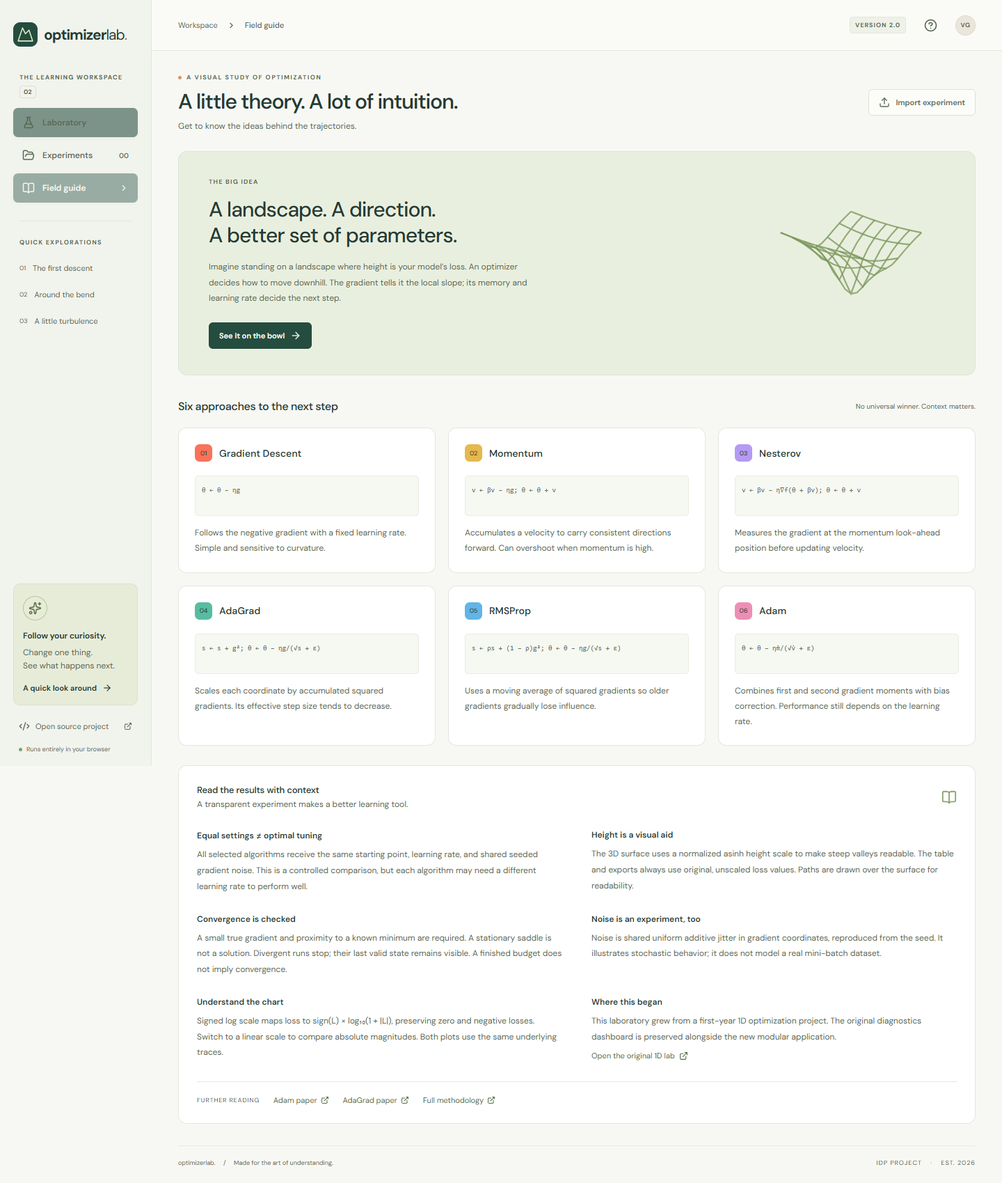
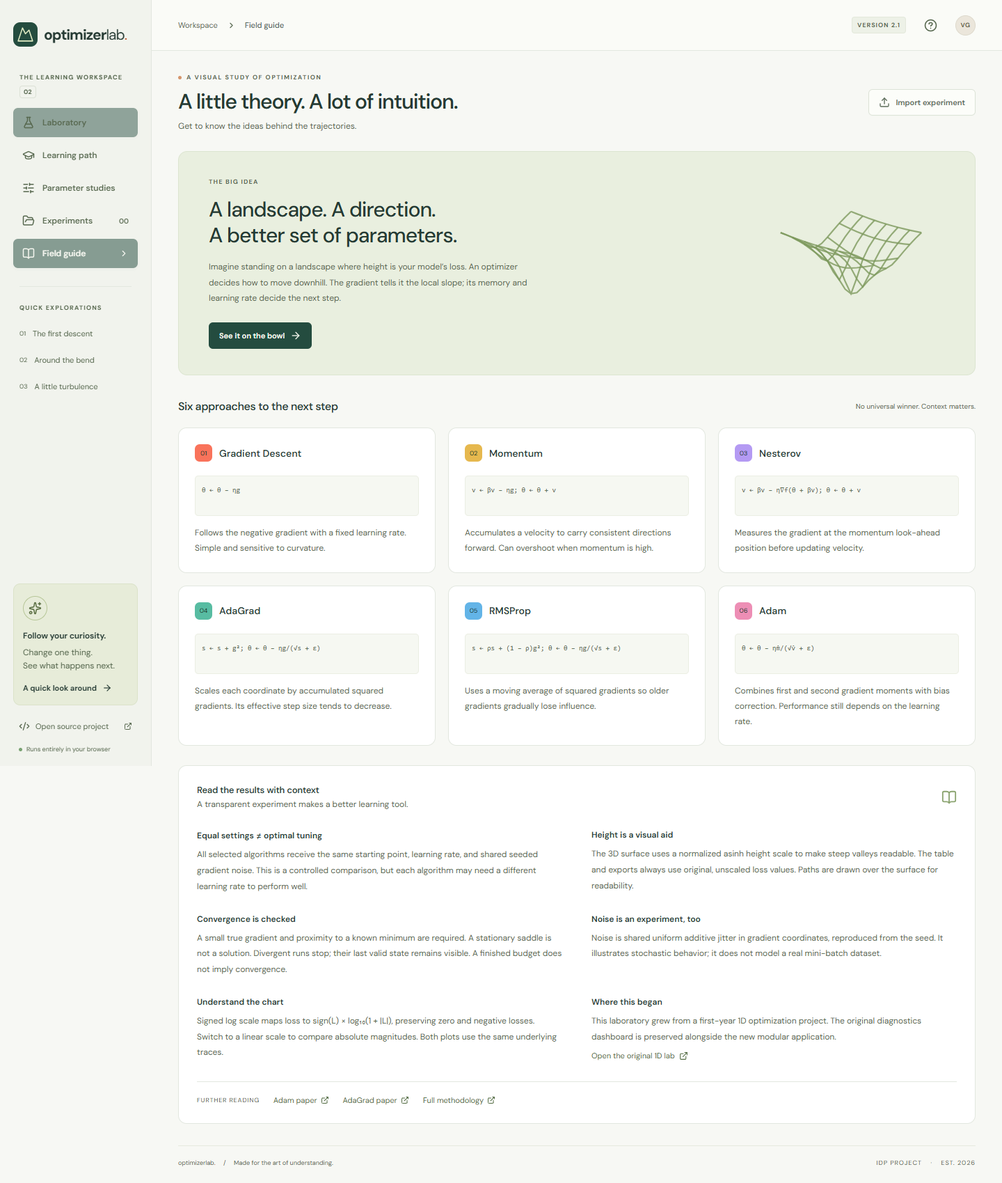
docs: publish the teaching methodology and prepare Vercel release

Changed region(s): [[0.0, 0.1248, 0.1562, 0.3119], [0.0312, 0.5303, 0.0938, 0.5927]]

diff --git a/docs/methodology.md b/docs/methodology.md
@@ -4,17 +4,28 @@ The lab studies unconstrained optimization of a scalar objective `f(x, y)` using
 
 ## Loss surfaces
 
-| Surface        | Objective                        | Analytic gradient `(∂f/∂x, ∂f/∂y)`               | Known global minima                  |
-| -------------- | -------------------------------- | ------------------------------------------------ | ------------------------------------ |
-| Quadratic      | `½(x² + 6y²)`                    | `(x, 6y)`                                        | `(0, 0)`, loss `0`                   |
-| Quartic saddle | `x² − y² + 0.15y⁴`               | `(2x, −2y + 0.6y³)`                              | `(0, ±√(10/3))`, loss `−5/3`         |
-| Rosenbrock     | `(1−x)² + 100(y−x²)²`            | `(2(x−1) − 400x(y−x²), 200(y−x²))`               | `(1, 1)`, loss `0`                   |
-| Himmelblau     | `(x²+y−11)² + (x+y²−7)²`         | `(4x(x²+y−11)+2(x+y²−7), 2(x²+y−11)+4y(x+y²−7))` | Four points with loss `0`; see below |
-| Rastrigin      | `20+x²+y²−10[cos(2πx)+cos(2πy)]` | `(2x+20πsin(2πx), 2y+20πsin(2πy))`               | `(0, 0)`, loss `0`                   |
+| Surface           | Objective                        | Analytic gradient `(∂f/∂x, ∂f/∂y)`               | Known global minima                                          |
+| ----------------- | -------------------------------- | ------------------------------------------------ | ------------------------------------------------------------ |
+| Quadratic         | `½(x² + 6y²)`                    | `(x, 6y)`                                        | `(0, 0)`, loss `0`                                           |
+| Quartic saddle    | `x² − y² + 0.15y⁴`               | `(2x, −2y + 0.6y³)`                              | `(0, ±√(10/3))`, loss `−5/3`                                 |
+| Rosenbrock        | `(1−x)² + 100(y−x²)²`            | `(2(x−1) − 400x(y−x²), 200(y−x²))`               | `(1, 1)`, loss `0`                                           |
+| Himmelblau        | `(x²+y−11)² + (x+y²−7)²`         | `(4x(x²+y−11)+2(x+y²−7), 2(x²+y−11)+4y(x+y²−7))` | Four points with loss `0`; see below                         |
+| Rastrigin         | `20+x²+y²−10[cos(2πx)+cos(2πy)]` | `(2x+20πsin(2πx), 2y+20πsin(2πy))`               | `(0, 0)`, loss `0`                                           |
+| Linear regression | `L(w,b) = Σ(wuᵢ+b−tᵢ)²/(2n)`     | `(Σrᵢuᵢ/n, Σrᵢ/n)`, where `rᵢ = wuᵢ+b−tᵢ`        | Training-data least-squares solution; generally nonzero loss |
 
 Himmelblau's stored minima are `(3, 2)`, `(-2.805118, 3.131312)`, `(-3.779310, -3.283186)`, and `(3.584428, -1.848126)`. Three are rounded coordinates, so their computed loss need not be exactly zero.
 
 The quartic saddle is bounded below and has a stationary saddle at `(0, 0)`. It is deliberately different from the unbounded surface `x² − y²`. With zero gradient, zero velocity, and no noise, all six methods can remain at the exact saddle; momentum is not a guaranteed escape mechanism.
+
+### From a surface to a fitted model
+
+For **Fit a Line**, the surface coordinates are parameters: `x = w` is slope and `y = b` is intercept. They are different from the plotted observation feature `u` and target `t`. A point on the loss surface therefore specifies the entire prediction rule `t̂ = wu + b`.
+
+[`src/lib/regression.ts`](../src/lib/regression.ts) supplies a fixed synthetic dataset: 25 training observations and 12 separate held-out observations, generated around `t = 1.4u + 0.65` with deterministic sinusoidal residuals. The data are reproducible teaching examples, not real measurements, and do not change with the experiment seed. The reference minimum is computed by closed-form least squares using **training data only**. Residual variation means even the optimal training line has nonzero error.
+
+The surface objective is **half the training mean squared error**. Its derivative is simpler because the factor of two from differentiating the square cancels the one-half. The model panel reports ordinary MSE for both splits, so `training MSE = 2L`. [Google's regression-loss lesson](https://developers.google.com/machine-learning/crash-course/linear-regression/loss) explains the prediction-to-squared-error connection.
+
+Every optimizer update uses all 25 training observations: this is full-batch optimization. The 12 held-out observations are used only to display evaluation error, never to calculate an update or the reference minimum. Their small, synthetic split cannot establish real-world generalization. Repeatedly choosing settings while watching held-out error also makes it a tuning signal, not an untouched final test. The noise control perturbs gradients; it does not resample observations or form minibatches.
 
 ## Update rules
 
@@ -57,6 +68,26 @@ An initial point can meet these conditions at step `0`. The rule deliberately di
 
 The engine never clips an optimizer's position to the displayed domain. Trajectories may leave the plot, and hiding an off-screen point does not change its computation. `bestLoss` is the smallest loss among recorded valid points, which can differ from the final loss.
 
+### Inspecting the actual update
+
+Each accepted non-initial point can include a `StepUpdateDetails` snapshot: the previous position, gradient-evaluation position, true gradient there, sampled noise, gradient used by the optimizer, displacement, coordinate multipliers, and memory before and after the step. AdaGrad/RMSProp/Adam record their denominators; Adam also records bias corrections and corrected moments. Snapshots are copied from the computation rather than reconstructed from the drawn path.
+
+Nesterov's evaluation position can differ from its previous position. The inspector's true gradient is evaluated there, while the comparison table's gradient norm is evaluated at the **new** position. These are different quantities. Adam's coordinate multiplier acts on its corrected first moment; it should not be read as a scalar multiplier of the current raw gradient. Step zero has no update, and an unsafe rejected step produces no accepted snapshot.
+
+`runExperiment(config, { captureUpdates: false })` omits those detailed snapshots for batch studies. It leaves positions, losses, stopping behavior, and random-number generation unchanged.
+
+## Learning-rate studies
+
+[`src/lib/study.ts`](../src/lib/study.ts) evaluates all six optimizers over 3–7 logarithmically spaced rates and 1–5 seeds, at most 210 trials. Rates have equal ratios rather than equal differences. Each trial uses the same surface, starting point, momentum setting, noise amplitude, and maximum budget; only its optimizer, rate, and seed vary. Seeds are consecutive unsigned 32-bit integers, wrapping at the integer limit. Study budgets are 200–1000 iterations and noise is bounded to `0–2`.
+
+With zero noise, changing the seed changes nothing; repeats are identical. With noise enabled, shared seeds give each method the same perturbation sequence at each iteration, while its own position still determines the gradient. These studies demonstrate sensitivity to a small sampled range, not statistically conclusive rankings. Log-scale exploration follows the practical tuning guidance in [Stanford CS231n](https://cs231n.github.io/neural-networks-3/#hyperparameter-optimization) and [Bengio's recommendations](https://arxiv.org/abs/1206.5533); this one-dimensional grid is not claimed to be an optimal search strategy for many hyperparameters.
+
+For each optimizer/rate cell, the median and minimum–maximum range include **only non-divergent terminal losses**. The valid-count denominator and divergent count are explicit. If every trial diverges, the median is absent. A divergent trial retains its last finite loss and best recorded loss separately; neither is substituted for a completed result. Read the failure counts before comparing a favorable survivor median. A run reaching its budget is valid for aggregation even if it has not met convergence criteria.
+
+The reported range describes these samples, not a confidence interval. A lowest fully valid median at the edge of the tested rate range is a reason to investigate the boundary, not evidence that the optimum was found. Heatmap coloring uses an `asinh` transform across the displayed medians; text and exported values remain unscaled.
+
+Study CSV and `optimizer-lab/study-v1` JSON reports retain every trial summary. They are distinct from single-experiment JSON imports. **Replay seed** reconstructs one exact experiment for the full laboratory. Cancellation discards a partial study so it cannot be mistaken for the planned complete sample.
+
 ## Input limits
 
 Imported configurations are validated as data; formulas are not evaluated from input text.
@@ -71,12 +102,14 @@ Imported configurations are validated as data; formulas are not evaluated from i
 | Start            | Finite x and y within the selected surface's display domain |
 | Optimizers       | One to six distinct recognized identifiers                  |
 
-The display domains are `[-4, 4]` for the quadratic bowl, `[-3, 3]` for the saddle, `[-2.5, 2.5]` for Rosenbrock, `[-5, 5]` for Himmelblau, and `[-5.12, 5.12]` for Rastrigin. Omitted settings use defaults; a selected surface supplies its own default start and learning rate.
+The display domains are `[-4, 4]` for the quadratic bowl, `[-3, 3]` for the saddle and linear-regression parameters, `[-2.5, 2.5]` for Rosenbrock, `[-5, 5]` for Himmelblau, and `[-5.12, 5.12]` for Rastrigin. Omitted settings use defaults; a selected surface supplies its own default start and learning rate.
 
 ## Visualization and comparison limits
 
 Surface height is transformed with `asinh` and normalized to the sampled surface range to make steep functions readable. Mesh resolution, perspective, and height compression are display choices. Use the numerical readouts and exported data for actual objective values, not apparent vertical distances in the 3D view.
 
-The common learning rate is useful for showing mechanisms under a controlled setup. It is not a per-method hyperparameter search. A learning rate well suited to Gradient Descent may be poor for Adam, and the reverse can also occur. Results on these five smooth, two-dimensional functions do not establish an optimizer's performance on high-dimensional models or unseen objectives.
+The common learning rate in the laboratory is useful for showing mechanisms under a controlled setup. It is not a per-method hyperparameter search. A learning rate well suited to Gradient Descent may be poor for Adam, and the reverse can also occur. The rate study broadens that one control but does not tune all other hyperparameters. Results on these six smooth, two-dimensional objectives do not establish an optimizer's performance on high-dimensional models or unseen data.
 
 Tests in [`src/lib/engine.test.ts`](../src/lib/engine.test.ts) check analytic gradients against finite differences, independently calculated updates, repeatability, stopping rules, invalid configuration handling, and divergence. They verify these implementation contracts rather than proving general convergence.
+
+Regression tests verify the least-squares reference and split isolation. Lesson tests verify the numerical comparisons used in the teaching content. Study tests cover logarithmic spacing, aggregation, reproducibility, cancellation, and report exports. See [learning design](learning-design.md) for the educational objectives and a classroom sequence.

diff --git a/README.md b/README.md
@@ -1,12 +1,12 @@
 # IDP Optimizer Visual Lab
 
-**See how optimizers think. Build an experiment. Follow every step.**
+**Predict the next step. Inspect the mathematics. Test your explanation.**
 
-[Launch the laboratory](https://guptavernit2-afk.github.io/idp-optimizer-visual-lab/) · [How the math works](docs/methodology.md) · [Development guide](CONTRIBUTING.md)
+[Open the platform](https://guptavernit2-afk.github.io/idp-optimizer-visual-lab/) · [Start learning](https://guptavernit2-afk.github.io/idp-optimizer-visual-lab/?page=learn) · [Teaching guide](docs/learning-design.md) · [Development guide](CONTRIBUTING.md)
 
 [![CI](https://github.com/guptavernit2-afk/idp-optimizer-visual-lab/actions/workflows/ci.yml/badge.svg)](https://github.com/guptavernit2-afk/idp-optimizer-visual-lab/actions/workflows/ci.yml)
 
-A browser-based optimization laboratory that turns mathematical loss landscapes into interactive experiments. Compare six gradient-based methods on five benchmark surfaces, inspect their trajectories, and keep reproducible results for your next demonstration or report.
+A browser-based educational platform for understanding gradient-based optimization. Learn through guided experiments, inspect the arithmetic and memory behind an update, fit a model to synthetic observations, and test learning-rate sensitivity across repeated trials.
 
 Originally a first-year project, the lab now brings the original 1D exploration into a modular React and TypeScript application. The original simulator remains intact in [`v1-1d-diagnostics/`](v1-1d-diagnostics/).
 
@@ -14,6 +14,10 @@ Originally a first-year project, the lab now brings the original 1D exploration 
 
 ## What you can do
 
+- **Learn by testing predictions.** Five guided lessons connect gradient direction, stability, momentum, adaptive scaling, and stationary points to measured evidence. Knowledge checks explain the answer, and completed lessons persist in this browser.
+- **Inspect a real update.** Scrub to a step and inspect its actual gradient, shared noise, parameter change, velocity, accumulator, or Adam bias-corrected moments. The inspector reads snapshots from the same numerical engine as the visualization.
+- **Connect a loss to a model.** Fit a line to 25 synthetic observations. Watch slope and intercept move on the loss surface, inspect individual residuals, and compare training MSE with error on 12 held-out observations.
+- **Investigate sensitivity.** Compare all six algorithms over 3–7 logarithmic learning rates and 1–5 shared seeds. Inspect median terminal loss, observed spread, convergence, and failures. Replay an exact trial or export the complete study report.
 - **Explore the landscape.** Orbit and zoom a projected 3D surface, switch to a contour view, and choose a starting point.
 - **Compare six methods.** Gradient Descent, Momentum, Nesterov, AdaGrad, RMSProp, and Adam use the same surface, start, and experiment budget.
 - **Control the experiment.** Change learning rate, momentum, gradient noise, random seed, and step budget. Use presets to investigate common optimization behaviors.
@@ -59,17 +63,30 @@ For visual captures, start `npm run preview -- --port 4173`, then run `npm run s
 4. Try Rosenbrock's curved valley or Rastrigin's local minima. Adjust the learning rate for each surface.
 5. Save the setup or export the trace. Repeat with a fixed seed before changing one parameter at a time.
 
+## A learning session
+
+1. Open **Learning path** and predict which coordinate moves farther in “Turn a slope into a step.” Run the example and explain the measured update before checking your understanding.
+2. Choose **Open in lab** and advance one iteration. Use **Inside this update** to connect the formula to the actual vectors.
+3. Select **Linear regression** in the laboratory. The point on the surface now represents a slope and intercept; its motion changes the fitted line.
+4. Open **Parameter studies**. Compare a logarithmic range of rates, then add gradient noise and repeat across seeds. Include divergence counts when interpreting the median.
+5. Export your measurements and record the settings, prediction, observation, and remaining question.
+
+The [learning-design guide](docs/learning-design.md) maps each feature to a learning objective and provides a 40-minute classroom sequence. It cites teaching guidance and primary optimization sources; the platform itself has not been evaluated in a learning-outcomes study.
+
+![Learning-rate sensitivity with explicit failure counts and reproducible trials](screenshots/parameter-studies.png)
+
 ## Benchmarks and interpretation
 
-| Landscape           | What it illustrates                               |
-| ------------------- | ------------------------------------------------- |
-| Quadratic bowl      | Curvature, stable descent, and momentum overshoot |
-| Quartic saddle      | A saddle at the origin and two finite minima      |
-| Rosenbrock valley   | A narrow curved valley with steep walls           |
-| Himmelblau function | Four equal global minima and different basins     |
-| Rastrigin function  | Many local minima surrounding a global minimum    |
+| Landscape           | What it illustrates                                                           |
+| ------------------- | ----------------------------------------------------------------------------- |
+| Quadratic bowl      | Curvature, stable descent, and momentum overshoot                             |
+| Quartic saddle      | A saddle at the origin and two finite minima                                  |
+| Rosenbrock valley   | A narrow curved valley with steep walls                                       |
+| Himmelblau function | Four equal global minima and different basins                                 |
+| Rastrigin function  | Many local minima surrounding a global minimum                                |
+| Linear regression   | Parameters, predictions, residuals, and half-MSE on a fixed synthetic dataset |
 
-These are educational two-parameter experiments, not a benchmark of neural-network training. One shared learning rate makes mechanisms easy to compare, but does not give every optimizer its best tuning. A small gradient alone does not prove that a global minimum was reached. Surface height is compressed for readability; exported losses and gradients retain their actual numerical values. See [methodology and equations](docs/methodology.md) for the exact conventions.
+These are educational two-parameter experiments. They do not benchmark neural-network training. One shared learning rate makes mechanisms easy to compare, but does not give every optimizer its best tuning. The rate-study grid helps explore this sensitivity; it does not establish a universal optimizer ranking. With zero noise, different seeds produce identical trajectories. A small gradient alone does not prove that a global minimum was reached. Surface height is compressed for readability; exported losses and gradients retain their actual numerical values. See [methodology and equations](docs/methodology.md) for the exact conventions.
 
 ## Project structure
 
@@ -94,6 +111,8 @@ The numerical engine is independent of React and rendering. This makes optimizer
 ## Deployment
 
 The production output is static and can be hosted on GitHub Pages or any static file host. Relative asset paths are used by default. `VITE_BASE_PATH` can override the deployment base when needed.
+
+**Vercel is the recommended host for this build.** Its Vite integration fits the static application, and Git integration can provide deployment previews without adding an application server. The repository includes `vercel.json` and an explicit upload exclusion list. No hosting credentials belong in the repository. See [deployment instructions](docs/deployment.md) for permanent account deployment and the limitations of an unclaimed temporary deployment.
 
 GitHub Actions checks the project on pushes and pull requests. After a successful `CI` run on `main`, the Pages workflow builds and publishes `dist/`; it can also be run manually. This repository is configured to use **GitHub Actions** as its Pages source. See [deployment notes](docs/deployment.md) for setup and troubleshooting.
 

diff --git a/docs/architecture.md b/docs/architecture.md
@@ -1,15 +1,19 @@
 # Architecture
 
-The application has three responsibilities: compute an experiment, present its state, and store or export the inputs and results. Numerical computation is independent of the interface and animation.
+The application separates numerical computation, learning activities, visualization, and persistence. Every view uses the same optimizer engine; a lesson or study does not maintain a second simulation.
 
 ```mermaid
 flowchart LR
   Controls[Controls / preset / imported configuration] --> Validation[Validated ExperimentConfig]
+  Lessons[Guided lessons] --> Validation
+  Study[Rate and seed study] --> Validation
   Validation --> Engine[Pure optimization engine]
   Engine --> Result[ExperimentResult: stored trajectories]
   Result --> Playback[Playback cursor]
   Playback --> Surface[Surface / contour canvas]
   Playback --> Diagnostics[Loss chart and diagnostics]
+  Playback --> Inspector[Actual update snapshots]
+  Playback --> Model[Predicted line and residuals]
   Result --> Export[CSV and JSON export]
   Validation --> Saved[Browser storage / share URL]
 ```
@@ -22,11 +26,25 @@ The result includes step `0`, so changing the playback cursor can show the initi
 
 Surface definitions contain both the objective and its gradient, display bounds, known minima, a starting point, and a suitable initial learning rate. Optimizer definitions contain stable identifiers, display names, colors, and explanatory text. Rendering code reads these definitions instead of maintaining a second list.
 
+[`src/lib/regression.ts`](../src/lib/regression.ts) defines the fixed synthetic training/holdout observations, prediction and error functions, analytic gradient, and training-only least-squares reference. It supplies the sixth surface. Its gradient depends only on training observations; the holdout set is a display-time evaluation input.
+
+Accepted trajectory points normally include independent copies of their update details. These preserve evaluation position, gradient, noise, displacement, memory, and adaptive scaling for `StepInspector`. Step zero has no update. Disabling capture with `runExperiment(config, { captureUpdates: false })` is an allocation optimization used by studies, not a different numerical mode.
+
 ## Interface and rendering
 
 React owns the experiment configuration, active workspace, playback position, and interface preferences. The loss-surface renderer lives in [`src/components/SurfaceCanvas.tsx`](../src/components/SurfaceCanvas.tsx). It projects a sampled surface onto a Canvas 2D context, supports orbiting and zooming, and draws the same stored trajectories in its surface and contour modes.
 
 The visual height transform is intentionally separate from the objective. Camera changes, canvas resizing, and playback speed must never mutate a trajectory. High-DPI canvas sizing and a resize observer adapt the drawing to the available space. Numerical diagnostics provide a textual companion to the graphics.
+
+The laboratory composes `SurfaceCanvas`, `LossChart`, and `StepInspector`; selecting linear regression also mounts `RegressionPanel`. The model panel maps the same playback point to a line, residuals, and training/holdout MSE. `ExperimentNotebook` and `FieldGuide` remain separate components.
+
+## Guided lessons and parameter studies
+
+[`src/lib/lessons.ts`](../src/lib/lessons.ts) contains five lessons with learning objectives, prediction prompts, validated configurations, interpretation, knowledge checks, and source links. `LearningPath` requires a prediction before revealing computed evidence, then records completion after the check is answered correctly. Its estimated durations are planning aids. Lesson tests assert the actual numerical behavior discussed in the content.
+
+[`src/lib/study.ts`](../src/lib/study.ts) validates bounded study settings, generates log-spaced rates and shared seed lists, runs each trial, and aggregates explicit valid and divergent outcomes. It retains trial summaries rather than every trajectory. Only one bounded engine result is needed at a time, with update snapshots disabled. A scheduler yields between trials so the interface can update progress and accept cancellation; `AbortSignal` and a component generation guard prevent stale work from publishing results.
+
+`ParameterStudy` shows settings, the optimizer/rate matrix, per-seed details, and report exports. Replaying a seed builds a normal `ExperimentConfig` and opens the laboratory. Changing controls does not relabel an existing report: the report retains its completed configuration until another study runs. See [methodology](methodology.md) for survivor-median semantics and limits.
 
 ## Persistence and export
 
@@ -34,11 +52,13 @@ The application is a static browser app. Saved experiments use local browser sto
 
 The versioned JSON envelope uses `format: "optimizer-lab/v2"`. A share URL stores the same inputs in its fragment, which is read by the application. Local storage retains up to 20 saved experiments under the `optimizer-lab.experiments.v2` key. Invalid stored entries are ignored when loading.
 
+Learning completion stores only known lesson identifiers under `optimizer-lab.learning.v1`. It is local, ungraded progress, not a student account or transcript. Study reports use `optimizer-lab/study-v1` and are deliberately not accepted by the single-experiment importer. Both report formats retain their version markers to avoid ambiguous interpretation.
+
 Storage can be unavailable or full, and clipboard access can be denied. Such failures should produce a useful interface message without losing the current experiment. Treat saved and imported content as untrusted data. Do not introduce `eval`, dynamic functions, or raw HTML injection to support custom inputs.
 
 ## Build and tests
 
-Vite builds the static application; TypeScript checks the module boundaries. Vitest exercises the pure numerical code and data utilities. Playwright exercises the application in a headless browser. GitHub Actions runs the validation commands before deployment.
+Vite builds the static application; TypeScript checks the module boundaries. Vitest exercises the pure engine, captured update identities, regression objective, lesson assertions, study runner, and persistence. Playwright exercises the integrated workflows in a headless browser, including responsive layouts and automated accessibility scans. GitHub Actions runs the validation commands before deployment.
 
 The original 1D file remains the canonical archive. The build copies it into the served `legacy/` route; the generated copy is ignored by Git. The `v2-3d-surface-lab/` directory points contributors to the current root application instead of maintaining a second implementation.
 

diff --git a/docs/deployment.md b/docs/deployment.md
@@ -2,6 +2,23 @@
 
 The current laboratory builds to a static `dist/` directory. It requires no server runtime, database, secrets, or API keys.
 
+## Recommended: Vercel
+
+Vercel and Render both support static frontends. Vercel is a direct fit for this Vite project, with framework detection and Git-linked previews. The application does not need a continuously running Render web service; if deploying there, use a Static Site. See [Vercel's Vite documentation](https://vercel.com/docs/frameworks/frontend/vite) and [Render's static-site documentation](https://render.com/docs/static-sites).
+
+For a permanent deployment, connect the GitHub repository to your Vercel account and import it with the Vite framework preset. Use `npm ci`, `npm run build`, and output directory `dist`. The committed `vercel.json` specifies these settings, security response headers, and immutable caching for hashed assets. Browser workspaces use the `page` query parameter, so no catch-all rewrite is required; the original `legacy/` directory remains a real static route.
+
+An authenticated CLI can also deploy the project:
+
+```bash
+npx vercel login
+npx vercel deploy --prod
+```
+
+Vercel also supports `npx vercel deploy --temporary` without an account. That command builds locally and returns a production URL, a private claim link, and a server-set expiry. **The deployment must be claimed before that expiry to remain available.** A temporary deployment is not a substitute for account ownership or ongoing Git integration. Claim links control the project and must never be put in Git, a README, or a public issue. After claiming, connect the repository for future deployments. [Official temporary-deployment documentation](https://vercel.com/docs/deployments/deploy-without-logging-in).
+
+The `.vercelignore` file excludes local caches, credentials, dependency folders, and test artifacts. `.vercel/` is also Git-ignored. The GitHub Pages URL remains an independently deployed, durable fallback.
+
 ## GitHub Pages
 
 The repository includes two workflows:

diff --git a/docs/project-notes.md b/docs/project-notes.md
@@ -30,3 +30,14 @@ The application at the repository root develops that idea into a modular workspa
 The quartic saddle was selected instead of the unbounded function `x² − y²`, so the lab can show a saddle and meaningful finite minima in one experiment. The educational narrative avoids declaring a universally best optimizer: performance depends on the landscape, starting point, tuning, noise, and stopping rule.
 
 For the current mathematics and implementation decisions, use [methodology](methodology.md) and [architecture](architecture.md). These notes describe provenance rather than an unfinished feature roadmap.
+
+## Educational platform: questions, evidence, and explanation
+
+The next refinement focuses on the project's original purpose: helping a student understand an optimizer rather than only watching a path.
+
+- Five guided lessons connect a prediction to measured behavior and a concept check. Their completion records stay in the learner's browser.
+- The step inspector exposes the update actually computed, including look-ahead gradients, retained velocity, accumulators, and Adam's bias correction.
+- A fixed synthetic linear-regression example connects parameter-space motion to a fitted line, residuals, and training versus held-out error.
+- A bounded learning-rate study repeats methods across log-spaced rates and shared seeds. It reports failures explicitly rather than hiding them behind averages.
+
+These additions use the same numerical engine and include tests for the claims they demonstrate. Their teaching flow is informed by primary learning and optimization resources; no study has established this application's learning effectiveness. The [learning-design guide](learning-design.md) explains that distinction and provides a suggested classroom activity.

diff --git a/screenshots/README.md b/screenshots/README.md
@@ -6,7 +6,10 @@
 - `lab-contour.png`: the same experiment in contour view.
 - `field-guide.png`: optimizer explanations and methodology.
 - `lab-mobile.png`: the responsive laboratory at 390 pixels wide.
+- `learning-path.png`: a guided prediction followed by measured evidence and a knowledge check.
+- `parameter-studies.png`: rate and seed comparisons with explicit failure counts.
+- `model-fitting.png`: the learned line, observations, residuals, and training/held-out errors.
 
-Run `npm run build` and `npm run preview -- --port 4173`, then `npm run screenshots` in another terminal to refresh all four captures.
+Run `npm run build` and `npm run preview -- --port 4173`, then `npm run screenshots` in another terminal to refresh the captures.
 
 When refreshing a capture, use the running application, wait for fonts and the canvas to render, and include enough of the controls to explain the experiment. Keep generated browser test artifacts in the ignored `test-results/` or `playwright-report/` directories.
